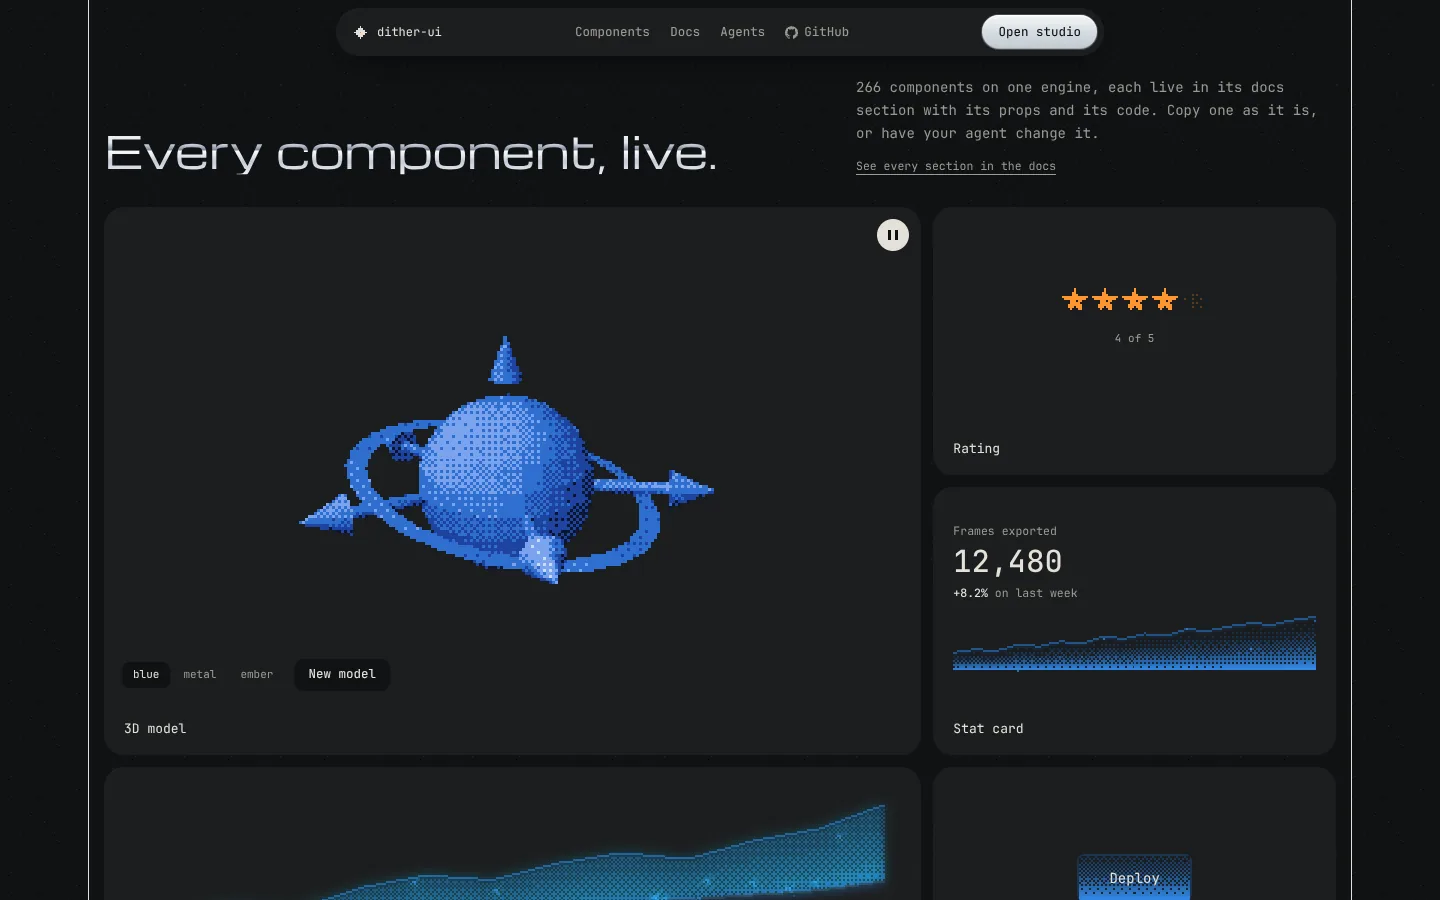
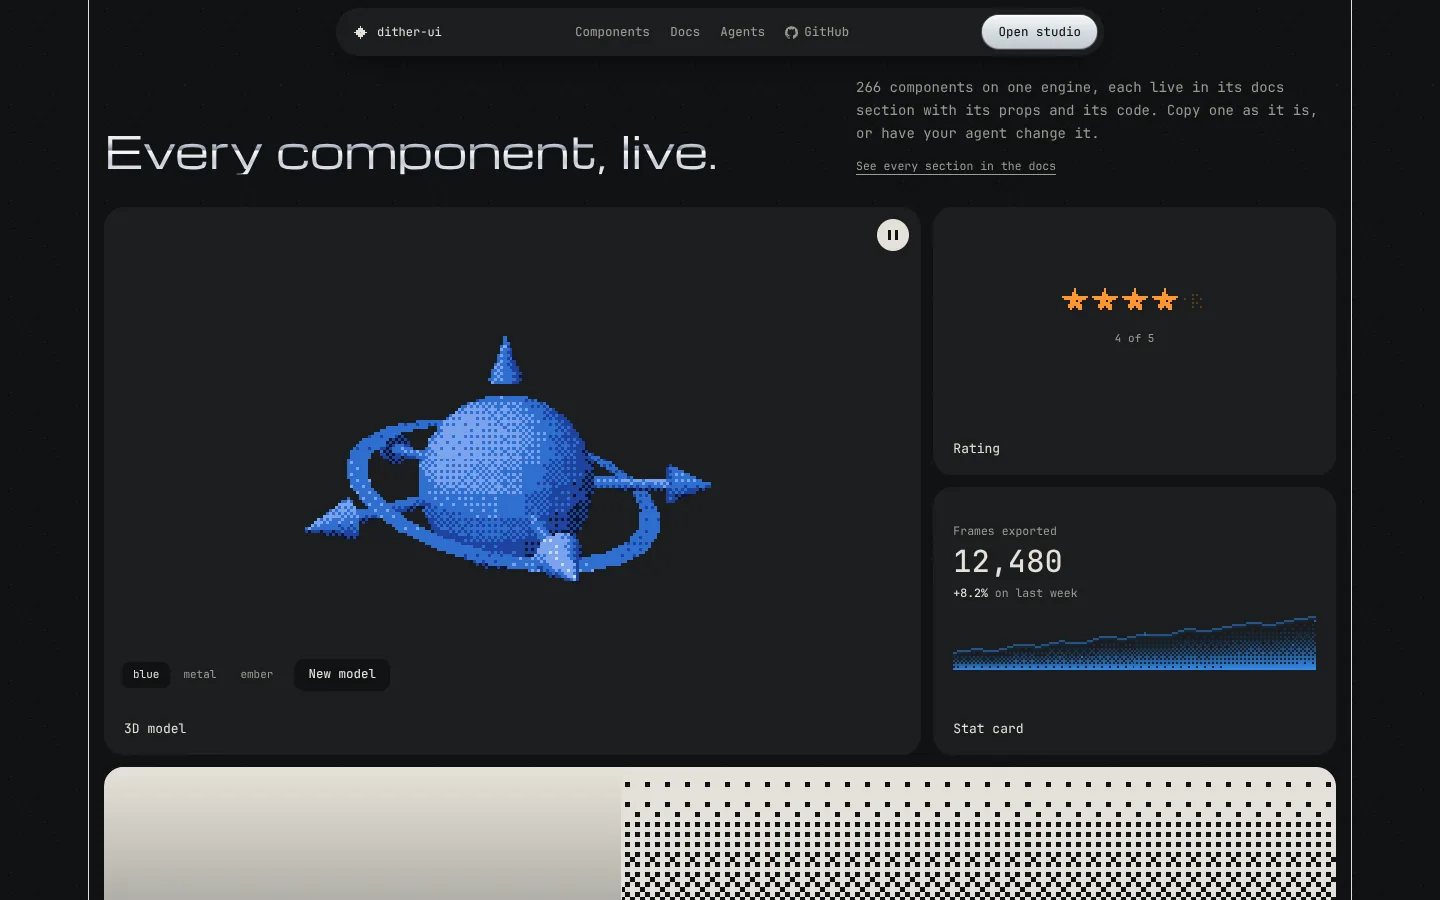
Print screens as one live ramp; the kit's spec sheet closes the install
Two moves from the Y2K research, built as working tools. A full-width
bento card prints one bone-to-obsidian ramp through the kit beside the
same ramp raw, split by a drag (or the arrow keys), with the five screens
switched in place. The raw side runs in linear light, so the printed cells
average to it and the two halves read as one tone from a step back. The
install now closes on a spec sheet of label and value rows, each value
read from the kit (counts, screens, license) or held to it by the facts
spec (Vue and Svelte peers, the 4x4 matrix, the styling systems).

Claude-Session: https://claude.ai/code/session_01VFJHAFjKoL8rvfjAbQNhSD

diff --git a/src/pages/landing/Examples.vue b/src/pages/landing/Examples.vue
@@ -13,10 +13,13 @@ import {
   DitherAvatar,
   DitherButton,
   DitherDecryptedText,
+  DitherGradient,
   DitherHoldAction,
+  DitherIcon,
   DitherMetaBalls,
   DitherProgress,
   DitherRating,
+  DitherScreen,
   DitherSilk,
   DitherSlideAction,
   DitherSlider,
@@ -26,12 +29,14 @@ import {
   PieChart,
   Radar,
   RadarChart,
+  SCREEN_KINDS,
   Sparkline,
   XAxis,
   cssColor,
   sampleWorld,
   type ButtonVariant,
   type DitherColor,
+  type ScreenKind,
 } from "@dither-kit"
 import { routePath } from "@/shared/lib"
 import { COMPONENT_COUNT } from "./facts"
@@ -81,6 +86,13 @@ const worldPlaying = ref(true)
 
 // Rating.
 const stars = ref(4)
+
+// Print screens: one tone ramp, raw on the left and printed on the right,
+// the split dragged (or stepped by keyboard) and the screen switched in
+// place. The raw ramp runs in linear light, so the printed cells average to
+// it: from a step back the two halves are one tone.
+const screen = ref<ScreenKind>("bayer")
+const split = ref(42)
 
 // Area chart: one seed sets every fill; roll it and every fill changes.
 const MONTHS = ["Jan", "Feb", "Mar", "Apr", "May", "Jun", "Jul", "Aug", "Sep", "Oct", "Nov", "Dec"]
@@ -202,7 +214,9 @@ const purged = ref(0)
       >
         <div
           class="card-art"
-          :class="{ flush: ['world', 'meta-balls', 'silk', 'shader', 'ferrofluid', 'styling'].includes(t.id) }"
+          :class="{
+            flush: ['world', 'print-screens', 'meta-balls', 'silk', 'shader', 'ferrofluid', 'styling'].includes(t.id),
+          }"
         >
           <template v-if="t.id === 'world'">
             <DitherWorld
@@ -228,6 +242,37 @@ const purged = ref(0)
           <div v-else-if="t.id === 'rating'" class="stack">
             <DitherRating v-model="stars" :size="30" label="Rate the kit" />
             <span class="readout">{{ stars }} of 5</span>
+          </div>
+
+          <div v-else-if="t.id === 'print-screens'" class="split" :style="{ '--split': `${split}%` }">
+            <DitherScreen :screen="screen">
+              <DitherGradient from="#e4e1d8" to="#101214" direction="down" :cell="5" class="split-layer" />
+            </DitherScreen>
+            <div class="split-layer split-raw" aria-hidden="true"></div>
+            <input
+              v-model.number="split"
+              type="range"
+              min="0"
+              max="100"
+              class="split-range"
+              aria-label="The ramp raw on the left, printed on the right: move the split"
+            />
+            <span class="split-handle" aria-hidden="true"
+              ><span class="split-grip"><DitherIcon name="GripVertical" :size="14" :stroke-width="1.75" /></span
+            ></span>
+            <div class="art-tools">
+              <div class="seg" role="group" aria-label="Screen">
+                <button
+                  v-for="k in SCREEN_KINDS"
+                  :key="k"
+                  type="button"
+                  :aria-pressed="screen === k"
+                  @click="screen = k"
+                >
+                  {{ k }}
+                </button>
+              </div>
+            </div>
           </div>
 
           <div v-else-if="t.id === 'area'" class="panel">
@@ -480,6 +525,10 @@ const purged = ref(0)
   grid-row: span 2;
 }
 
+.t-print-screens {
+  grid-column: 1 / -1;
+}
+
 .t-area,
 .t-styling {
   grid-column: span 8;
@@ -516,6 +565,7 @@ const purged = ref(0)
   padding: 18px 20px;
 }
 
+.t-print-screens .card-art,
 .t-bar .card-art,
 .t-meta-balls .card-art,
 .t-silk .card-art,
@@ -593,6 +643,61 @@ const purged = ref(0)
   top: 12px;
   right: 12px;
   z-index: 2;
+}
+
+/* Print screens: the printed ramp under the raw one, the raw clipped at the
+   split; a full-size range takes the drag (vertical swipes still scroll) and
+   the keys, its handle a bone disc on a bone line. */
+.split-layer {
+  position: absolute;
+  inset: 0;
+}
+
+.split-raw {
+  background: linear-gradient(in srgb-linear to bottom, #e4e1d8, #101214);
+  clip-path: inset(0 calc(100% - var(--split)) 0 0);
+}
+
+.split-range {
+  position: absolute;
+  inset: 0;
+  z-index: 1;
+  width: 100%;
+  height: 100%;
+  margin: 0;
+  opacity: 0;
+  cursor: ew-resize;
+  touch-action: pan-y;
+}
+
+.split-handle {
+  position: absolute;
+  top: 0;
+  bottom: 0;
+  left: var(--split);
+  z-index: 1;
+  width: 1px;
+  background: var(--ink);
+  pointer-events: none;
+}
+
+.split-grip {
+  position: absolute;
+  top: 50%;
+  left: 50%;
+  display: grid;
+  place-items: center;
+  width: 32px;
+  height: 32px;
+  border-radius: 999px;
+  color: var(--background);
+  background: var(--ink);
+  translate: -50% -50%;
+}
+
+.split-range:focus-visible + .split-handle .split-grip {
+  outline: 2px solid var(--ring);
+  outline-offset: 3px;
 }
 
 .stack {
@@ -786,6 +891,7 @@ const purged = ref(0)
     grid-column: span 1;
   }
   .t-world,
+  .t-print-screens,
   .t-area,
   .t-styling,
   .t-bar,
@@ -807,6 +913,7 @@ const purged = ref(0)
     grid-template-columns: minmax(0, 1fr);
   }
   .t-world,
+  .t-print-screens,
   .t-area,
   .t-styling,
   .t-bar,

diff --git a/tests/landing-facts.spec.ts b/tests/landing-facts.spec.ts
@@ -1,13 +1,19 @@
 import { readFileSync } from "node:fs"
 import { describe, expect, it } from "rstack/test"
-import { COMPONENT_COUNT, RUNTIME_DEPS } from "../src/pages/landing/facts"
+import { SCREENS, SCREEN_KINDS } from "../dither-kit/engine/pixel"
+import { STYLING_LABELS } from "../src/shared/lib/restyle"
+import { COMPONENT_COUNT, RUNTIME_DEPS, SPECS } from "../src/pages/landing/facts"
 import { FAMILIES, SECTION_COUNT } from "../src/pages/landing/hub"
 
 const index = readFileSync(new URL("../dither-kit/tailwind/index.ts", import.meta.url), "utf8")
 const components = [...index.matchAll(/default as (\w+)/g)].map((m) => m[1])
 const kit = JSON.parse(readFileSync(new URL("../dither-kit/package.json", import.meta.url), "utf8")) as {
+  license: string
   peerDependencies: Record<string, string>
   peerDependenciesMeta: Record<string, { optional?: boolean }>
+}
+const port = JSON.parse(readFileSync(new URL("../dither-kit-svelte/package.json", import.meta.url), "utf8")) as {
+  peerDependencies: Record<string, string>
 }
 
 describe("landing facts", () => {
@@ -31,6 +37,19 @@ describe("landing facts", () => {
     expect(counts).toEqual([COMPONENT_COUNT, SECTION_COUNT, FAMILIES.find((f) => f.title === "Backgrounds")?.count])
     expect(film).toContain(`["${COMPONENT_COUNT}", "components"]`)
     expect(film).toContain(`["${SECTION_COUNT}", "docs sections"]`)
+  })
+
+  it("keeps a spec sheet the kit bears out", () => {
+    const spec = (label: string) => SPECS.find((s) => s.label === label)?.value ?? ""
+    expect(spec("Components")).toContain("Vue 3")
+    expect(kit.peerDependencies.vue).toMatch(/^\^3\./)
+    expect(spec("Components")).toContain("Svelte 5")
+    expect(port.peerDependencies.svelte).toMatch(/^\^5\./)
+    expect(spec("Engine")).toContain(`${SCREENS.bayer.length}×${SCREENS.bayer[0].length}`)
+    expect(spec("Screens")).toBe(SCREEN_KINDS.join(", "))
+    for (const name of Object.values(STYLING_LABELS)) expect(spec("Styling")).toContain(name)
+    expect(spec("License")).toBe(kit.license)
+    for (const s of SPECS) expect(`${s.label} ${s.value}`).not.toMatch(/[—·]/)
   })
 
   it("names every package the kit needs beside Vue (a styling layer's own, optional, aside)", () => {

diff --git a/src/pages/landing/LandingPage.vue b/src/pages/landing/LandingPage.vue
@@ -16,6 +16,7 @@ import "./chapters.css"
 import { version } from "../../../package.json"
 import AgentStory from "./AgentStory.vue"
 import Examples from "./Examples.vue"
+import { SPECS } from "./facts"
 import { DOCS_FAMILIES, SECTION_COUNT } from "./hub"
 import InstallBlock from "./InstallBlock.vue"
 import LineWordmark from "./LineWordmark.vue"
@@ -231,6 +232,12 @@ const COLUMNS: { title: string; links: { label: string; href: string; n?: number
             On Svelte 5? The same kit ships as <code>dither-kit-svelte</code>, and the
             <a :href="routePath('/docs/getting-started')" class="lead">quick start</a> has its steps.
           </p>
+          <dl class="sheet" aria-label="The kit in brief">
+            <div v-for="s in SPECS" :key="s.label" class="sheet-row">
+              <dt>{{ s.label }}</dt>
+              <dd>{{ s.value }}</dd>
+            </div>
+          </dl>
         </section>
       </div>
     </main>
@@ -469,6 +476,37 @@ const COLUMNS: { title: string; links: { label: string; href: string; n?: number
   padding-inline: 16px;
 }
 
+/* The spec sheet closing the install: label and value rows on the raised
+   ground, two columns of rows from 640px, no rules between them. (Not
+   `.spec`: that is the site voice's uppercase label, banned here.) */
+.sheet {
+  display: grid;
+  grid-template-columns: repeat(2, minmax(0, 1fr));
+  gap: 0 40px;
+  margin: 8px 0 0;
+  padding: 18px 24px;
+  border-radius: 16px;
+  background: var(--surface);
+}
+
+.sheet-row {
+  display: grid;
+  grid-template-columns: 6.5rem minmax(0, 1fr);
+  gap: 12px;
+  padding-block: 7px;
+  font-size: 12px;
+  line-height: 1.6;
+}
+
+.sheet-row dt {
+  color: var(--ink-3);
+}
+
+.sheet-row dd {
+  margin: 0;
+  color: var(--ink);
+}
+
 .install-note {
   margin: 0;
   font-size: 12px;
@@ -619,6 +657,10 @@ const COLUMNS: { title: string; links: { label: string; href: string; n?: number
   .foot-in {
     grid-template-columns: repeat(2, minmax(0, 1fr));
     padding-inline: 16px;
+  }
+  .sheet {
+    grid-template-columns: minmax(0, 1fr);
+    padding: 12px 16px;
   }
   .foot-copy {
     padding-inline: 16px;

diff --git a/src/pages/landing/facts.ts b/src/pages/landing/facts.ts
@@ -1,8 +1,25 @@
 // The kit as the landing states it. Claims are facts:
 // tests/landing-facts.spec.ts recounts each one from the kit, so a kit
 // change that moves one fails until the page says it.
+import { SCREEN_KINDS } from "@dither-kit"
+import kit from "../../../dither-kit/package.json"
+import { SECTION_COUNT } from "./hub"
+
 export const COMPONENT_COUNT = 266
 
 /** The packages the kit needs beside Vue (its peer dependencies), in the
  * order the install step names them. */
 export const RUNTIME_DEPS = ["d3-scale", "d3-shape", "clsx", "tailwind-merge"] as const
+
+/** The spec sheet that closes the install: label and value, each value read
+ * from the kit where it can be, the rest held to it by the facts spec. */
+export const SPECS: readonly { label: string; value: string }[] = [
+  { label: "Components", value: `${COMPONENT_COUNT} for Vue 3, ported to Svelte 5` },
+  { label: "Docs", value: `${SECTION_COUNT} live sections, each with its props and code` },
+  { label: "Engine", value: "One seeded 4×4 threshold matrix under every surface" },
+  { label: "Screens", value: SCREEN_KINDS.join(", ") },
+  { label: "Rendering", value: "Canvas on the CPU, WebGL for big meshes and GLSL" },
+  { label: "Styling", value: "Tailwind, StyleX, CSS Modules or CSS" },
+  { label: "Exports", value: "Vue or Svelte code, PNG, MP4" },
+  { label: "License", value: kit.license },
+]

diff --git a/src/pages/landing/hub.ts b/src/pages/landing/hub.ts
@@ -60,6 +60,7 @@ export const BENTO: BentoTile[] = [
   { id: "world", label: "3D model", family: "Components" },
   { id: "rating", label: "Rating", family: "Components" },
   { id: "stats-cards", label: "Stat card", family: "Examples" },
+  { id: "print-screens", label: "Print screens", family: "Utils" },
   { id: "area", label: "Area chart", family: "Components" },
   { id: "button", label: "Button", family: "Components" },
   { id: "slider", label: "Slider", family: "Components" },

diff --git a/src/pages/AGENTS.md b/src/pages/AGENTS.md
@@ -116,19 +116,27 @@ widgets/features; page-specific conventions live here.
   "dither-ui"). A string with a glyph the face lacks throws; every string
   the page sets is covered by `tests/pixel-type.spec.ts`.
 - Facts are claims: `facts.ts` holds `COMPONENT_COUNT` (the examples'
-  lede) and `RUNTIME_DEPS` (the packages beside Vue, which the install
-  bar's commands are built from); `tests/landing-facts.spec.ts` recounts
+  lede), `RUNTIME_DEPS` (the packages beside Vue, which the install
+  bar's commands are built from) and `SPECS` (the spec sheet closing the
+  install: label and value rows on the raised ground, two columns from
+  640px, values read from the kit where they can be: the counts, the
+  screens, the license; the facts spec holds the rest to the kit's peers,
+  matrices and styling systems); `tests/landing-facts.spec.ts` recounts
   the first from `dither-kit/tailwind/index.ts` and holds the second to
   the kit's required `peerDependencies` (a styling layer's optional one
   aside); section counts come from `hub.ts`. A change that moves one
   fails until the page says it.
 - Examples (`Examples.vue`, `#examples`, "Every component, live."): a
   section head (the component count from `facts.ts`, "See every section in
-  the docs"), then the bento: `BENTO` (`hub.ts`), nineteen live kit
+  the docs"), then the bento: `BENTO` (`hub.ts`), twenty live kit
   components on a 12-column grid row by row: the 3D model (8, two rows
   tall, flush; `sampleWorld` of a seed on a picked ramp: blue, metal or
   ember, and "New model" for the next seed) beside the rating and the
-  stat card; the area chart (8; one seed for every fill, "Roll a seed")
+  stat card; print screens (the full row, flush: one bone-to-obsidian
+  `DitherGradient` printed through a `DitherScreen` under the same ramp
+  raw, the raw one in linear light so the printed cells average to it,
+  clipped at a split a full-size range drags or the arrows step, its
+  handle a bone disc; the five screens switched in place); the area chart (8; one seed for every fill, "Roll a seed")
   and the button (its four fills and five hues); the slider (a dither's
   settings: cell size with ticks, contrast, each with its value), the pie
   chart and the avatars; the shader (flush; the kit's seeded sample, mono

diff --git a/AGENTS.md b/AGENTS.md
@@ -137,7 +137,7 @@ Default section order:
   components, one agent session played as the page scrolls (a pinned
   stage: the ask, what the agent does said in words, the screen building
   beside it), what's inside (the kit, the Studio, the bridge, the docs'
-  families), a centred install, and the footer: the brand beside link
+  families), a centred install closed by the kit's spec sheet, and the footer: the brand beside link
   columns, the copyright line and the line-screen wordmark. It keeps the
   user's slop bans as lifted for it (User Preferences). No film
   player or animation runtime ships with the page. The trailer
